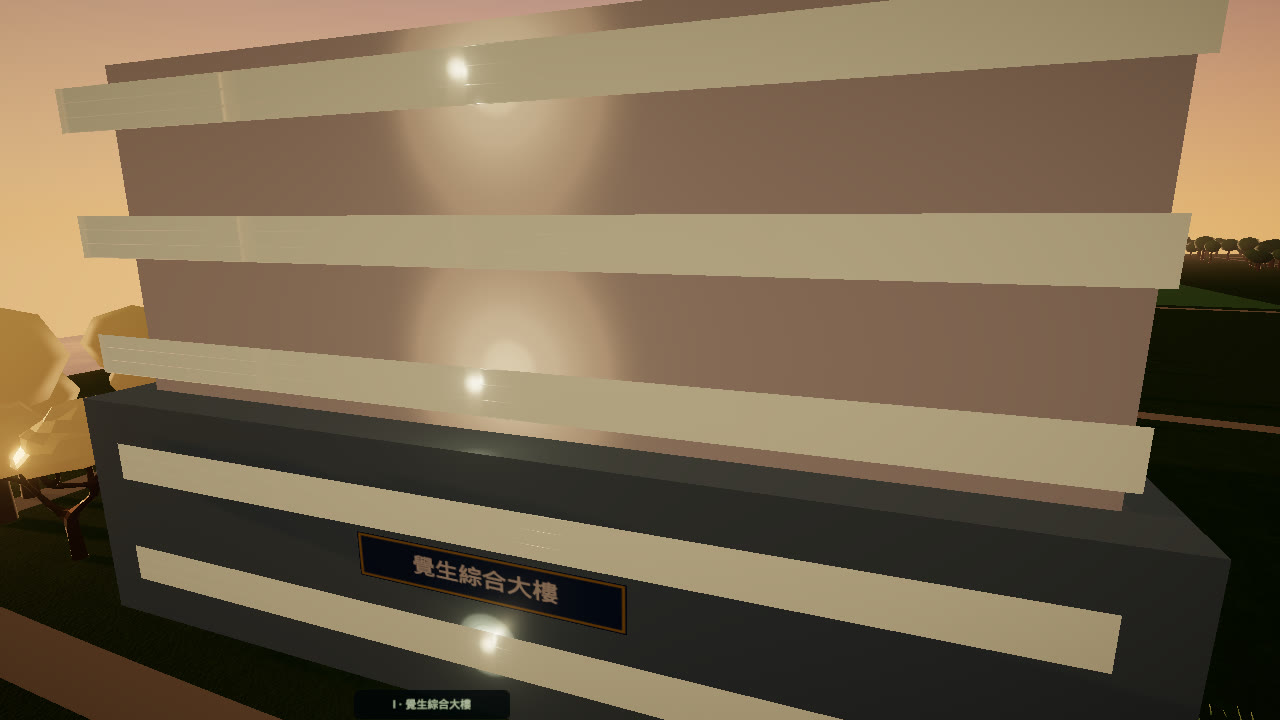
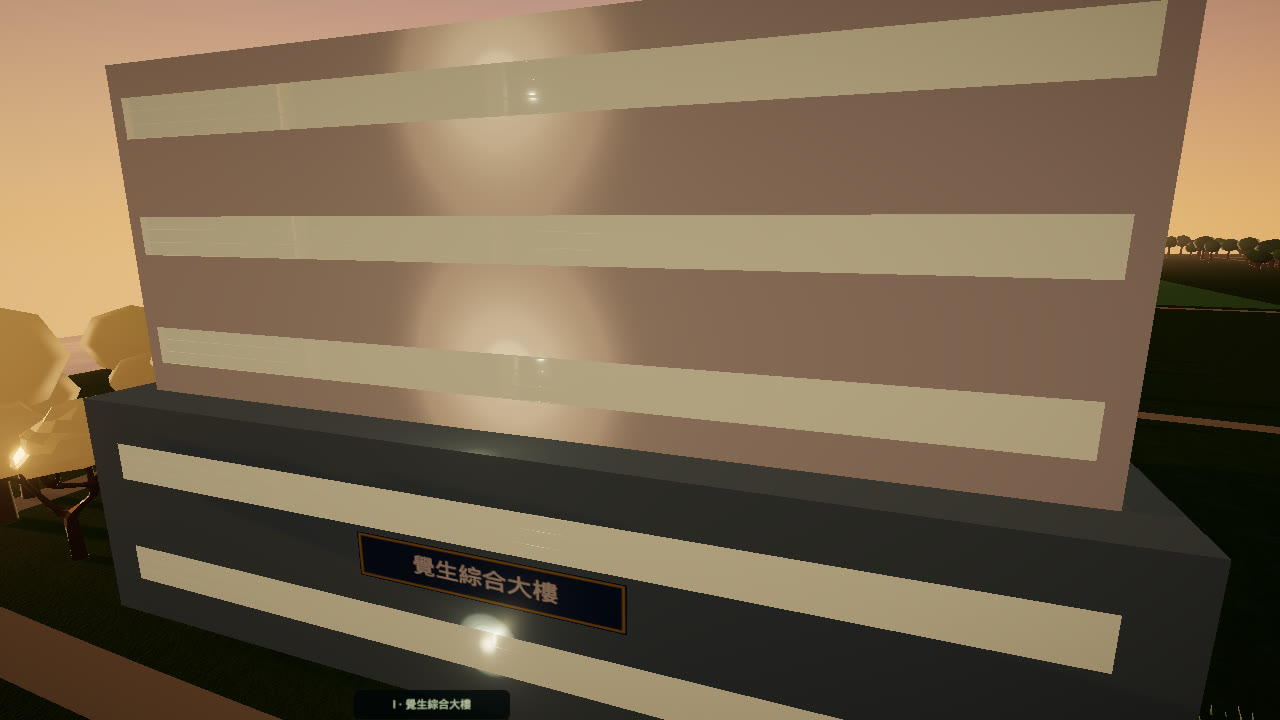
Seat the integrated hall windows on the recessed upper wall
The shared glazing used the full footprint, so the upper bands floated in front of the set-back volume. Those floors now follow that volume's face.

diff --git a/src/game/world/ContextStructures.tsx b/src/game/world/ContextStructures.tsx
@@ -7,6 +7,8 @@ import {
   GATE_PIER_WIDTH,
   SECONDARY_STRUCTURES,
   contextShowsDetail,
+  glazingBand,
+  linkedHallProfile,
   structureGroundY,
 } from "../world-data/zones/secondary.ts";
 import { type PlaneItem } from "./InstancedPlanes";
@@ -152,13 +154,13 @@ export function ContextStructures({
       for (let f = 0; f < floors; f++) {
         const fy = y + ((f + 0.55) * s.size[1]) / floors;
         for (const side of [1, -1] as const) {
-          const lz = side * (s.size[2] / 2 + 0.05);
-          const wx = s.position[0] + Math.sin(s.rotationY) * lz;
-          const wz = s.position[1] + Math.cos(s.rotationY) * lz;
+          const band = glazingBand(s.kind, s.size, floors, f, side);
+          const wx = s.position[0] + Math.sin(s.rotationY) * band.lz;
+          const wz = s.position[1] + Math.cos(s.rotationY) * band.lz;
           out.push({
             position: [wx, fy, wz],
             rotationY: s.rotationY + (side > 0 ? 0 : Math.PI),
-            width: s.size[0] - 3,
+            width: band.width,
             height: (s.size[1] / floors) * 0.34,
             anchorX: s.position[0],
             anchorZ: s.position[1],
@@ -302,7 +304,8 @@ export function ContextStructures({
           );
         }
         if (s.kind === "linked-hall") {
-          const baseH = Math.max(3.2, s.size[1] * 0.42);
+          const profile = linkedHallProfile(s.size);
+          const baseH = profile.baseH;
           const upperH = Math.max(1, s.size[1] - baseH);
           return (
             <group key={s.id} position={[s.position[0], y, s.position[1]]} rotation={[0, s.rotationY, 0]}>
@@ -310,8 +313,8 @@ export function ContextStructures({
                 <boxGeometry args={[s.size[0], baseH, s.size[2]]} />
                 <meshStandardMaterial color="#7f96a0" roughness={0.35} metalness={0.08} />
               </mesh>
-              <mesh position={[0, baseH + upperH / 2, -0.6]} castShadow receiveShadow>
-                <boxGeometry args={[s.size[0] - 2.4, upperH, s.size[2] - 2.2]} />
+              <mesh position={[0, baseH + upperH / 2, profile.upperZ]} castShadow receiveShadow>
+                <boxGeometry args={[profile.upperWidth, upperH, profile.upperDepth]} />
                 <meshStandardMaterial color="#f3f0e8" roughness={0.84} />
               </mesh>
               {nameplates[s.id] && (

diff --git a/src/game/world-data/zones/secondary.ts b/src/game/world-data/zones/secondary.ts
@@ -307,6 +307,39 @@ export function contextShowsDetail(
   return Math.hypot(cameraX - x, cameraZ - z) <= contextDetailLimit(tier);
 }
 
+/** Glass base plus the set-back upper volume used by 覺生綜合大樓. */
+export function linkedHallProfile(size: readonly [number, number, number]) {
+  const baseH = Math.max(3.2, size[1] * 0.42);
+  return {
+    baseH,
+    upperWidth: size[0] - 2.4,
+    upperDepth: size[2] - 2.2,
+    upperZ: -0.6,
+  };
+}
+
+/**
+ * Local Z and width of one window band. The linked hall's upper floors sit
+ * on the recessed volume, so those bands cannot use the full footprint.
+ */
+export function glazingBand(
+  kind: SecondaryStructure["kind"],
+  size: readonly [number, number, number],
+  floors: number,
+  floor: number,
+  side: 1 | -1,
+) {
+  const full = { lz: side * (size[2] / 2 + 0.05), width: size[0] - 3 };
+  if (kind !== "linked-hall") return full;
+  const profile = linkedHallProfile(size);
+  const y = ((floor + 0.55) * size[1]) / floors;
+  if (y < profile.baseH) return full;
+  return {
+    lz: profile.upperZ + side * (profile.upperDepth / 2 + 0.05),
+    width: Math.max(2, profile.upperWidth - 1.2),
+  };
+}
+
 function campusKind(site: {
   id: string;
   form?: "court" | "gate";
